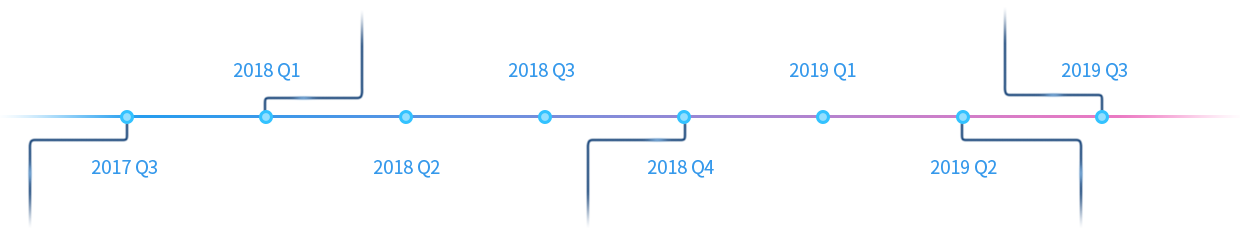
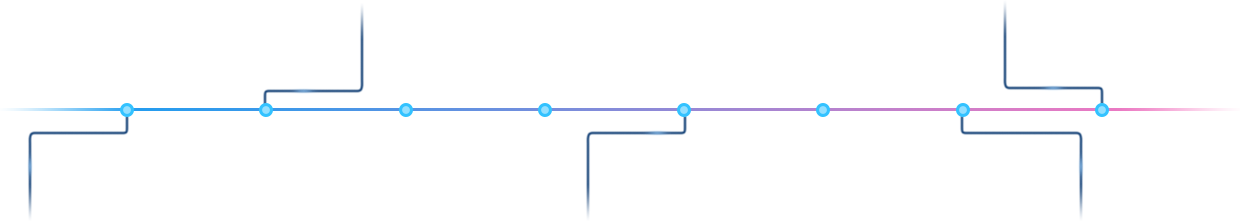
commit

diff --git a/src/containers/home/index.css b/src/containers/home/index.css
@@ -1,6 +1,6 @@
 #mainNav {
   height: 80px;
-  width: 1366px;
+  width: 100%;
   background-color: rgba(9, 12, 28, 0.8);
   line-height: 80px;
   position: fixed;
@@ -34,15 +34,19 @@
   line-height: 24px;
   letter-spacing: 0px;
   color: #ffffff;
+  border-bottom: 3px rgba(0, 0, 0, 0) solid;
 }
 #mainNav #main_links li a {
   color: #ffffff;
 }
 #mainNav #main_links .active {
+  background-color: rgba(66, 63, 69, 0.4);
   border-image: linear-gradient(-90deg, #f877bf 0%, #159ff2 100%) 1;
   border-width: 3px;
   border-style: solid;
   border-image-slice: 0 0 100% 0;
+  border-left: 0;
+  border-right: 0;
 }
 .tab_panel {
   width: 100%;
@@ -51,6 +55,7 @@
   height: 711px;
   background: url(img/banner_bg.png) no-repeat;
   overflow: hidden;
+  background-size: cover;
 }
 #tab_panel1 i {
   display: block;
@@ -71,7 +76,9 @@
   text-align: center;
 }
 .tab_panel_wrap {
-  background: url(img/tab_panel_bg.jpg) no-repeat;
+  background: url(img/tab_panel_bg.png) no-repeat;
+  background-size: cover;
+  margin-top: -2px;
 }
 .tab_panel_wrap .tab_panel h2 {
   height: 40px;
@@ -257,6 +264,79 @@
   margin: 0 auto 172px;
   background: url(img/tab_panel5_item.png) no-repeat;
 }
+.tab_panel_wrap #tab_panel5 .tab_panel5_item .tab_panel5_item1 {
+  margin-left: 198px;
+}
+.tab_panel_wrap #tab_panel5 .tab_panel5_item .tab_panel5_item1 .tab_panel5_item_c {
+  margin-right: 111px;
+}
+.tab_panel_wrap #tab_panel5 .tab_panel5_item .tab_panel5_item1 .tab_panel5_item_c::after {
+  bottom: -40px;
+}
+.tab_panel_wrap #tab_panel5 .tab_panel5_item .tab_panel5_item1 .tab_panel5_item_c:nth-of-type(1)::after {
+  content: '2018 Q1';
+}
+.tab_panel_wrap #tab_panel5 .tab_panel5_item .tab_panel5_item1 .tab_panel5_item_c:nth-of-type(2)::after {
+  content: '2018 Q3';
+}
+.tab_panel_wrap #tab_panel5 .tab_panel5_item .tab_panel5_item1 .tab_panel5_item_c:nth-of-type(3)::after {
+  content: '2019 Q1';
+}
+.tab_panel_wrap #tab_panel5 .tab_panel5_item .tab_panel5_item1 .tab_panel5_item_c:nth-of-type(4)::after {
+  content: '2019 Q3';
+}
+.tab_panel_wrap #tab_panel5 .tab_panel5_item .tab_panel5_item2 {
+  margin-left: 70px;
+  margin-top: 157px;
+}
+.tab_panel_wrap #tab_panel5 .tab_panel5_item .tab_panel5_item2 .tab_panel5_item_c {
+  margin-right: 111px;
+  vertical-align: top;
+}
+.tab_panel_wrap #tab_panel5 .tab_panel5_item .tab_panel5_item2 .tab_panel5_item_c::after {
+  top: -40px;
+}
+.tab_panel_wrap #tab_panel5 .tab_panel5_item .tab_panel5_item2 .tab_panel5_item_c:nth-of-type(1)::after {
+  content: '2017 Q3';
+}
+.tab_panel_wrap #tab_panel5 .tab_panel5_item .tab_panel5_item2 .tab_panel5_item_c:nth-of-type(2)::after {
+  content: '2018 Q2';
+}
+.tab_panel_wrap #tab_panel5 .tab_panel5_item .tab_panel5_item2 .tab_panel5_item_c:nth-of-type(3)::after {
+  content: '2018 Q4';
+}
+.tab_panel_wrap #tab_panel5 .tab_panel5_item .tab_panel5_item2 .tab_panel5_item_c:nth-of-type(4)::after {
+  content: '2019 Q2';
+}
+.tab_panel_wrap #tab_panel5 .tab_panel5_item .tab_panel5_item_c {
+  height: 42px;
+  font-family: SourceHanSansCN-Regular;
+  font-size: 18px;
+  font-weight: normal;
+  font-stretch: normal;
+  line-height: 26px;
+  letter-spacing: 0px;
+  color: #ffffff;
+  display: inline-block;
+  position: relative;
+  text-align: center;
+}
+.tab_panel_wrap #tab_panel5 .tab_panel5_item .tab_panel5_item_c:last-of-type {
+  margin-right: 0;
+}
+.tab_panel_wrap #tab_panel5 .tab_panel5_item .tab_panel5_item_c::after {
+  position: absolute;
+  width: 100%;
+  left: 0;
+  text-align: center;
+  font-family: SourceHanSansCN-Regular;
+  font-size: 18px;
+  font-weight: normal;
+  font-stretch: normal;
+  line-height: 26px;
+  letter-spacing: 0px;
+  color: #3699eb;
+}
 #main_footer {
   width: 100%;
   height: 273px;
@@ -281,14 +361,14 @@
   margin-right: 44px;
   font-size: 22px;
 }
-#main_footer ul li a:hover {
-  color: #fff;
-}
-#main_footer ul li a:active {
-  color: #fff;
-}
-#main_footer ul li a:link {
+#main_footer ul li a:link::before {
   color: #3c3c3c;
+}
+#main_footer ul li a:active::before {
+  color: #fff;
+}
+#main_footer ul li a:hover::before {
+  color: #fff;
 }
 #main_footer ul li:last-of-type {
   margin-right: 0;

diff --git a/src/containers/home/index.less b/src/containers/home/index.less
@@ -1,6 +1,6 @@
 #mainNav {
   height: 80px;
-  width: 1366px;
+  width: 100%;
   background-color: rgba(9, 12, 28, .8);
   line-height: 80px;
   position: fixed;
@@ -32,15 +32,19 @@
       line-height: 24px;
       letter-spacing: 0px;
       color: #ffffff;
+      border-bottom: 3px rgba(0, 0, 0, 0) solid;
       a {
         color: #ffffff;
       }
     }
     .active {
+      background-color: rgba(66, 63, 69, 0.4);
       border-image: linear-gradient(-90deg, #f877bf 0%, #159ff2 100%) 1;
       border-width: 3px;
       border-style: solid;
       border-image-slice: 0 0 100% 0;
+      border-left: 0;
+      border-right: 0;
     }
   }
 }
@@ -53,6 +57,7 @@
   height: 711px;
   background: url(./img/banner_bg.png) no-repeat;
   overflow: hidden;
+  background-size: cover;
   i {
     display: block;
     width: 266px;
@@ -74,7 +79,9 @@
 }
 
 .tab_panel_wrap {
-  background: url(./img/tab_panel_bg.jpg) no-repeat;
+  background: url(./img/tab_panel_bg.png) no-repeat;
+  background-size: cover;
+  margin-top: -2px;
   .tab_panel {
     h2 {
       height: 40px;
@@ -265,6 +272,79 @@
       height: 237px;
       margin: 0 auto 172px;
       background: url(./img/tab_panel5_item.png) no-repeat;
+      .tab_panel5_item1{
+        margin-left: 198px;
+        .tab_panel5_item_c{
+          margin-right: 111px;
+          &::after{
+            bottom: -40px;
+          }
+          &:nth-of-type(1)::after{
+            content: '2018 Q1';
+          }
+          &:nth-of-type(2)::after{
+            content: '2018 Q3';
+          }
+          &:nth-of-type(3)::after{
+            content: '2019 Q1';
+          }
+          &:nth-of-type(4)::after{
+            content: '2019 Q3';
+          }
+        }
+      }
+      .tab_panel5_item2{
+        margin-left: 70px;
+        margin-top: 157px;
+        .tab_panel5_item_c{
+          margin-right: 111px;
+          vertical-align: top;
+          &::after{
+            top: -40px;
+          }
+          &:nth-of-type(1)::after{
+            content: '2017 Q3';
+          }
+          &:nth-of-type(2)::after{
+            content: '2018 Q2';
+          }
+          &:nth-of-type(3)::after{
+            content: '2018 Q4';
+          }
+          &:nth-of-type(4)::after{
+            content: '2019 Q2';
+          }
+        }
+      }
+      .tab_panel5_item_c{
+        height: 42px;
+        font-family: SourceHanSansCN-Regular;
+        font-size: 18px;
+        font-weight: normal;
+        font-stretch: normal;
+        line-height: 26px;
+        letter-spacing: 0px;
+        color: #ffffff;
+        display: inline-block;
+        position: relative;
+        text-align: center;
+        &:last-of-type{
+          margin-right: 0;
+        }
+        &::after{
+          position: absolute;
+          width: 100%;
+          left: 0;
+          text-align: center;
+          font-family: SourceHanSansCN-Regular;
+          font-size: 18px;
+          font-weight: normal;
+          font-stretch: normal;
+          line-height: 26px;
+          letter-spacing: 0px;
+          color: #3699eb;
+        }
+      }
     }
   }
 }
@@ -290,14 +370,14 @@
       display: inline-block;
       margin-right: 44px;
       font-size: 22px;
-      a:hover{
-        color: #fff;
-      }
-      a:active{
-        color: #fff;
-      }
-      a:link {
+      a:link::before{
         color: #3c3c3c;
+      }
+      a:active::before{
+        color: #fff;
+      }
+      a:hover::before{
+        color: #fff;
       }
     }
     li:last-of-type {

diff --git a/src/containers/home/index.jsx b/src/containers/home/index.jsx
@@ -70,6 +70,18 @@ class Home extends Component {
             <h2>ROADMAP</h2>
             <i></i>
             <div className='tab_panel5_item'>
+              <div className='tab_panel5_item1'>
+                <div className='tab_panel5_item_c'>Magic Eye <br />生态系统理念确定</div>
+                <div className='tab_panel5_item_c'>完成公链搭建基础工作，<br />搭建分布式内容平台框架</div>
+                <div className='tab_panel5_item_c'>公链主网发布，<br />数字钱包开发测试</div>
+                <div className='tab_panel5_item_c'>分布式数据平台 <br />正式版发布</div>
+              </div>
+              <div className='tab_panel5_item2'>
+                <div className='tab_panel5_item_c'>Magic Eye <br />生态之旅开启</div>
+                <div className='tab_panel5_item_c'>白皮书、官网发布，公链<br />基础环境搭建</div>
+                <div className='tab_panel5_item_c'>公链测试网络发布</div>
+                <div className='tab_panel5_item_c'>推出Dapp，<br />分布式数据平台测试版本</div>
+              </div>
             </div>
           </div>
         </div>
@@ -113,7 +125,7 @@ class Home extends Component {
     link_items.click(function () {
       let index = link_items.index(this);
       $('body,html').animate({ scrollTop: $('.tab_panel:eq(' + index + ')').offset().top - 200 }, 200);
-  });
+    });
   }
 }
 

diff --git a/src/style.css b/src/style.css
@@ -35,5 +35,4 @@
 }
 .icon-telegram:before {
   content: "\e903";
-  color: #808080;
 }

diff --git a/src/containers/App/index.css b/src/containers/App/index.css
@@ -1,4 +1,4 @@
 #app {
-  width: 1366px;
+  width: 100%;
   margin: 0 auto;
 }

diff --git a/src/containers/App/index.less b/src/containers/App/index.less
@@ -1,4 +1,4 @@
 #app {
-  width: 1366px;
+  width: 100%;
   margin: 0 auto;
 }
